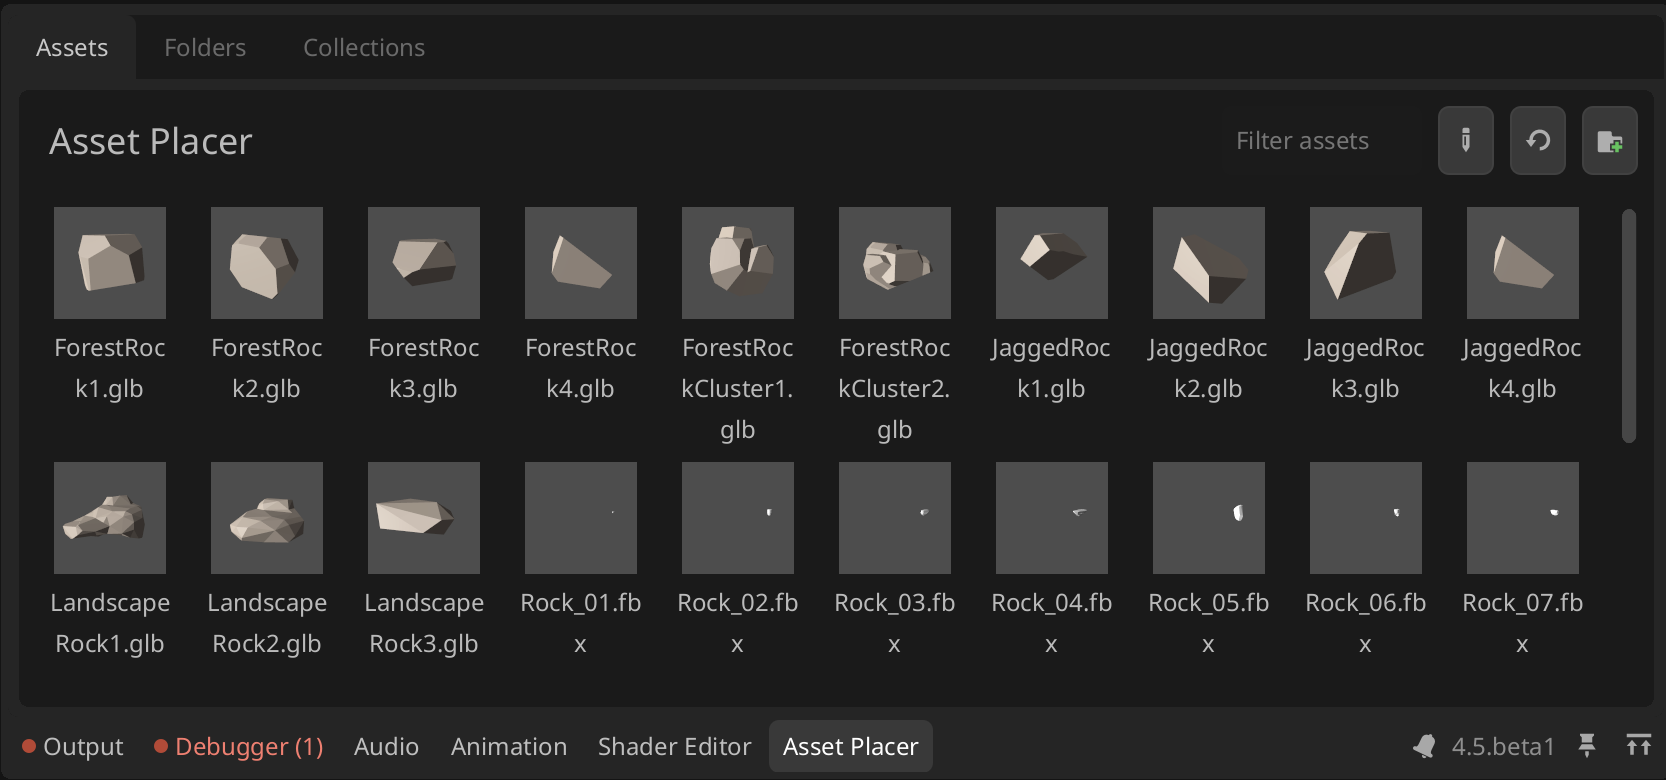
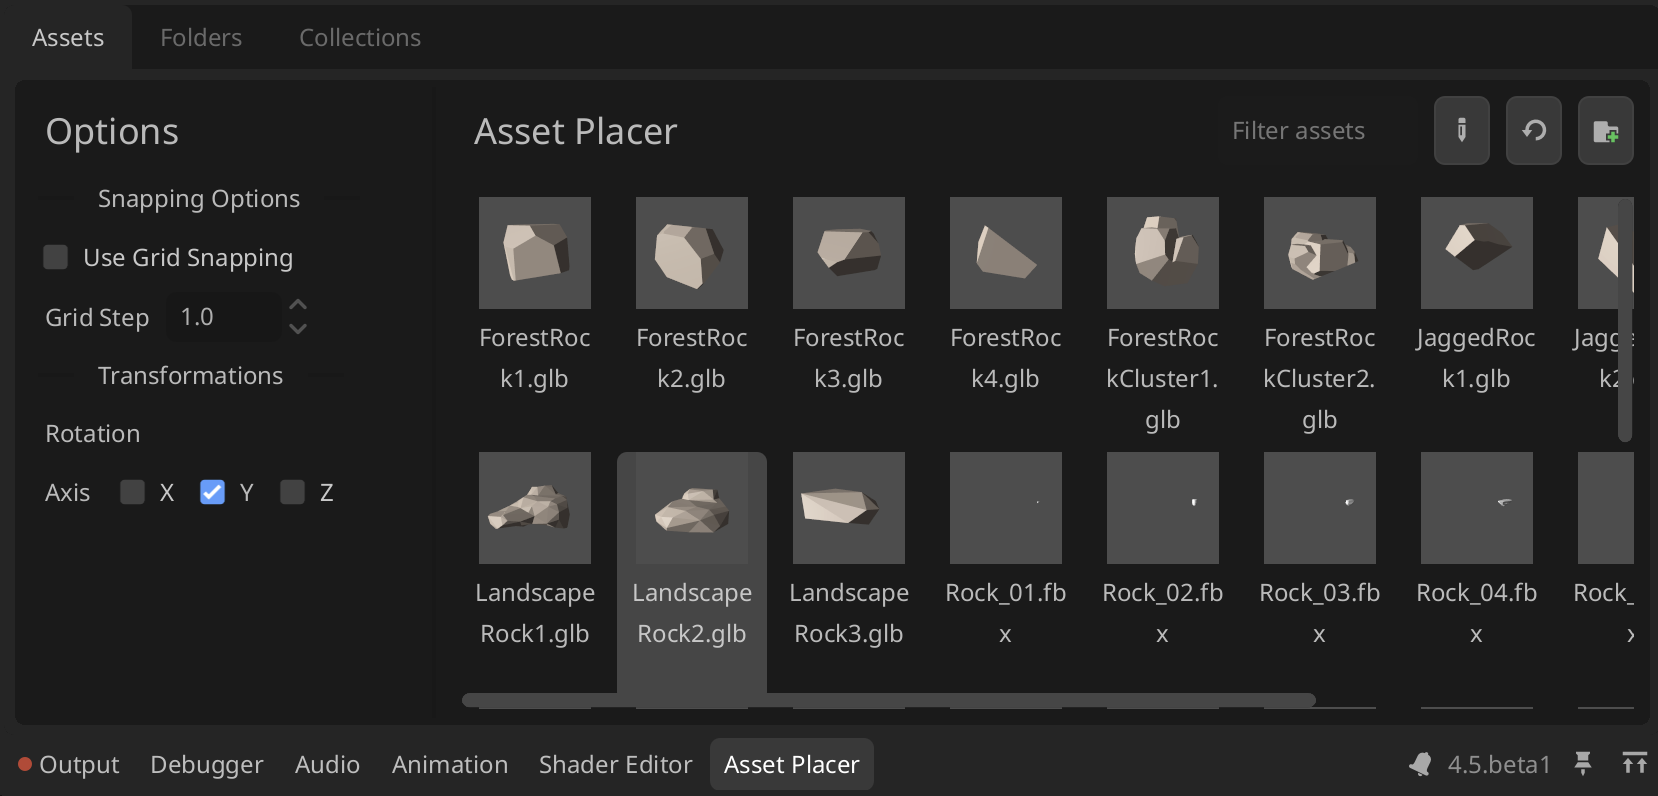
docs: update README

diff --git a/README.md b/README.md
@@ -2,14 +2,15 @@
 This is Godot Editor plugin that allows for quick asset placement and management when working with large 3D Scenes.
 
 > This plugin is still in development and may have bugs or incomplete features. Please report any issues you encounter
-> 
+>
 > Any Features and Suggestions are welcome as well
 
-
 # Features
-- One-Click Asset Placement with Snapping to Ground and other Collistion shapes
+- One-Click Asset Placement with Snapping to Ground and other Collision shapes
 - Organize Assets into collections for quick access and filtering
 - Filter Assets by their name and collection
+- Grid snapping when placing assets
+- Randomize asset rotation on placement
 
 <p align="center">
   <a href="https://youtu.be/ffRDdsYeiqM" target="_blank">
@@ -18,10 +19,6 @@ This is Godot Editor plugin that allows for quick asset placement and management
 </p>
 
 ![addon_preview.png](docs/addon_preview.png)
-
-
-
-
 
 # Installation
 1. Clone the repository
@@ -41,17 +38,17 @@ After you have added the folders, you can use "Reload" button to sync that folde
 To place an asset, select it from the list and click and navigate to the 3D scene of you choice. If all goes well, you should see a preview of your asset snapping to the neares surface
 Click again to place the asset in the scene.
 
-
 ## Organizing Assets
 You can organize your assets into collections by selecting the assets and clicking the "Create Collection" button. This will create a new collection with the selected assets. You can also filter assets by their name and collection using the search bar at the top of the plugin window.
 
 Collections is a simple way to "group" assets together by some criteria. For example, you can create a collection for all the trees in your scene, or all the rocks, etc.
 
-
 ## Known Issues
 - The plugin currently does not support undo/redo for asset placement. This is a known issue and will be addressed in future updates.
 - So far plugin only supports .tscn files, glb and fbx models. If you have any other formats you would like to see supported, please let me know.
 - The UI is work in progress..
-- No random/custom transform support yet, but it is planned for the future.
 
 [demo.mov](docs/demo.mov)
+
+# Changelog
+See the [CHANGELOG.md](CHANGELOG.md) for a full list of changes and updates.
